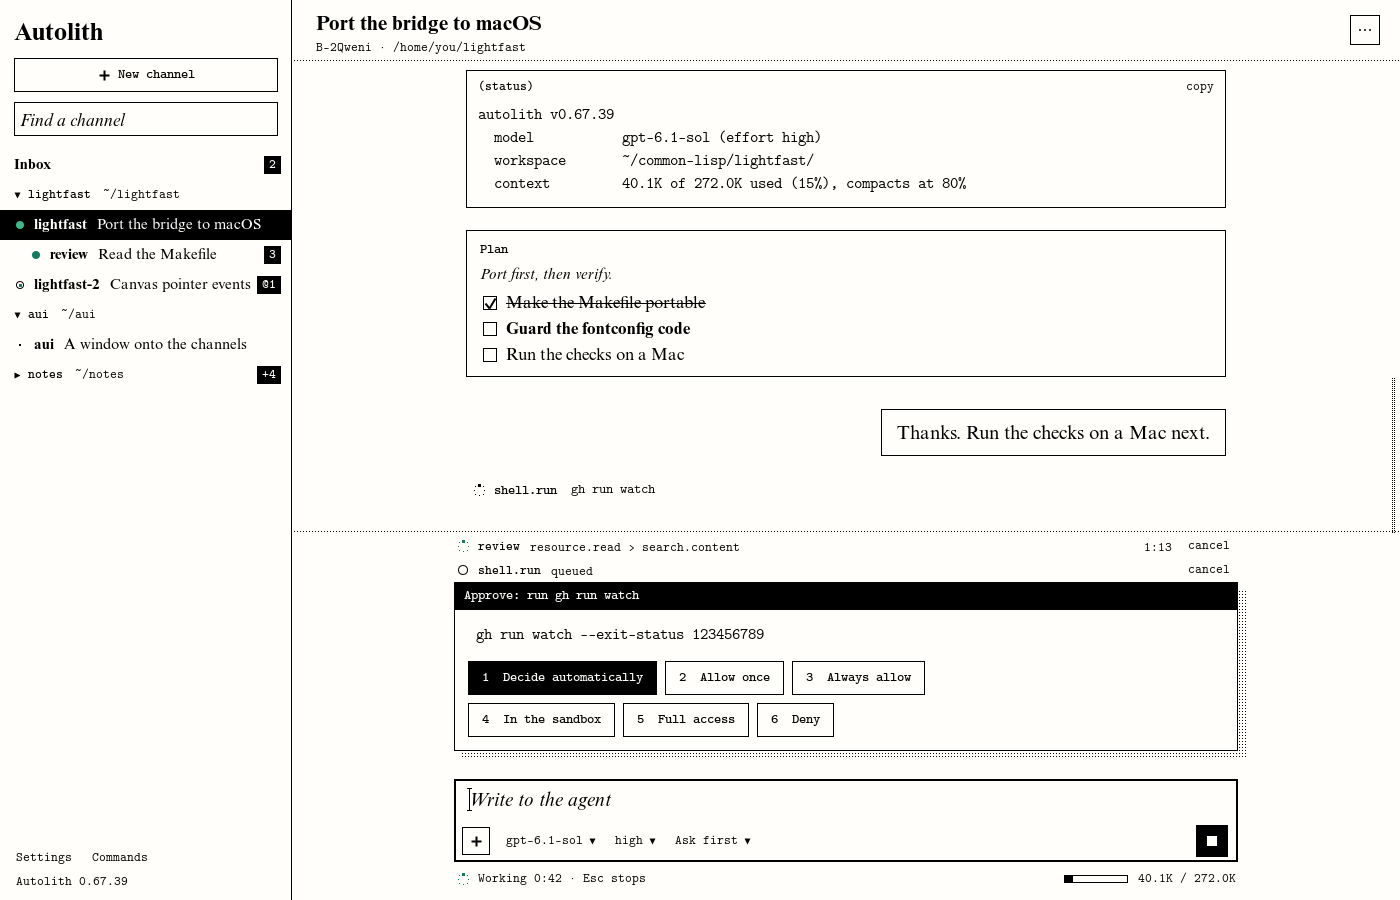
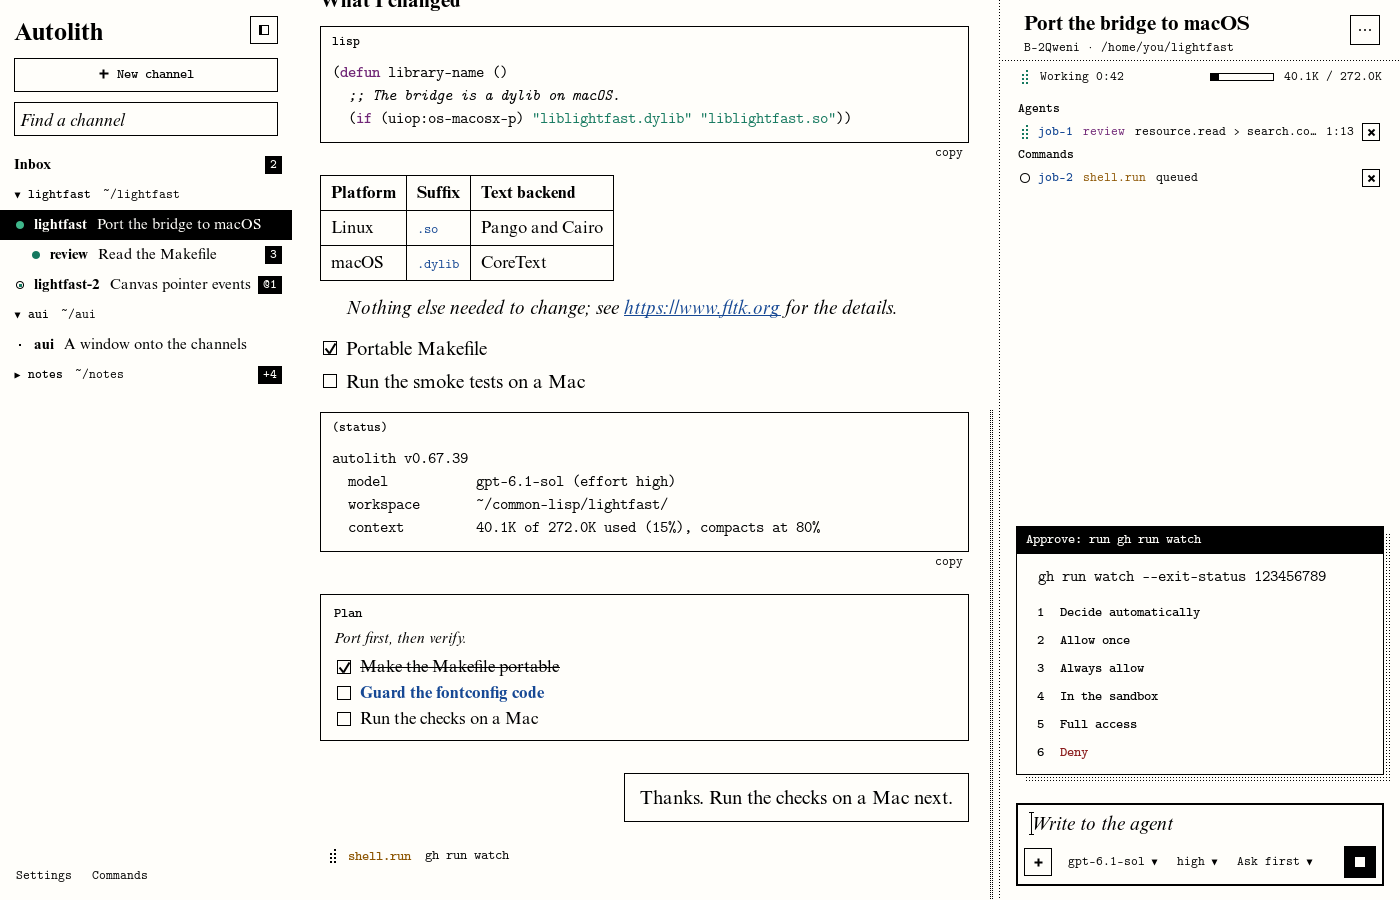
Describe the console, the menus and the editing keys

diff --git a/README.md b/README.md
@@ -22,6 +22,8 @@ hairlines, no rounded corners.
 
 ![An approval waiting above the composer](assets/pictures/approval.png)
 
+![What is remembered for the workspace](assets/pictures/memories.png)
+
 ## Install
 
 AUI is built on the machine it runs on.
@@ -105,23 +107,38 @@ Options of AUI's own:
 | `-C`, `--directory DIR` | work in DIR instead of the current directory |
 | `--prompt TEXT` | send TEXT as soon as the channel is attached |
 | `--draft TEXT` | put TEXT in the composer |
-| `--view NAME` | show `commands`, `settings` or `channels` at start |
+| `--view NAME` | show `commands`, `settings`, `channels`, `agenda`, `memories` or `plan` at start |
 | `--demo` | a scripted conversation, no server needed |
 | `--shot FILE` | write a picture of the window and exit |
 | `--size WIDTHxHEIGHT` | with `--shot`, draw offscreen at exactly this size |
 
 ## Using it
 
-The left side lists the world's channels: the inbox, then each workspace with
-its channels, children under their parents. A green dot marks an agent at
-work, a ring a hosted channel that is idle, a small point one nobody serves.
-Counts at the right are unread messages and mentions. Click a channel to
-attach to it; right-click for more.
+A wide window has three columns. The left one lists the world's channels, the
+middle one holds the conversation and nothing else, and the right one, the
+console, holds everything about the channel that is not conversation: its
+title, identifier and directory, how full its context is, what runs for it,
+what waits to be read by the agent, an approval when one is asked for, and the
+composer at its foot. A window too narrow for that stacks the same things
+above and below the conversation, and one narrower still shows the channel
+list as a drawer.
+
+The channel list has the inbox, then each workspace with its channels,
+children under their parents. A green dot marks an agent at work, a ring a
+hosted channel that is idle, a small point one nobody serves. Counts at the
+right are unread messages and mentions. Click a channel to attach to it;
+right-click for more. The button beside the wordmark puts the list away.
+
+What runs is listed by kind, agents, commands, evaluations and model calls,
+and a kind with nothing running is not named. A row's cross cancels it; its
+menu copies the call that cancels it.
 
 Write in the composer. A draft starting with `/` or `(` is a command or a Lisp
 form and runs as it does in the terminal; typing either offers the channel's
 commands, and `@` offers the world's participants. The chips under the text
-choose the model, the reasoning effort and the permission mode.
+choose the model, the reasoning effort and the permission mode. The channel's
+menu, the button with three dots, shows its status, plan, agenda, memories and
+jobs, each in a window of its own.
 
 What the agent did is shown as one line per tool call, reasoning step or
 notice; click a line to open it. Drag across the conversation to select and
@@ -135,7 +152,12 @@ copy text.
 | Up, Down | step through completions, or through what you sent |
 | Escape | put a list or the drawer away; otherwise stop the agent |
 | 1 to 9 | answer a waiting approval with that choice, when the composer is empty |
-| Ctrl+K | commands |
+| Ctrl+A, Ctrl+E | the start and the end of the line |
+| Ctrl+U, Ctrl+K | delete to the start and to the end of the line |
+| Ctrl+W, Ctrl+Backspace, Alt+Backspace | delete the word before the caret |
+| Alt+D, Ctrl+Delete | delete the word after the caret |
+| Alt+B, Alt+F | move by words |
+| Ctrl+K | commands, where the line has nothing after the caret to delete |
 | Ctrl+, | settings |
 | Ctrl+T | show or hide the channel list |
 | Ctrl+O | find a channel |
@@ -143,7 +165,8 @@ copy text.
 | Page Up, Page Down | scroll the conversation |
 | Ctrl+Home, Ctrl+End | its beginning; its end, following new output again |
 
-On macOS the Command key takes the place of Ctrl.
+On macOS the Command key takes the place of Ctrl for the window's own keys.
+The editing keys stay on Control there, as in every text field on a Mac.
 
 ## Develop
 

diff --git a/AGENTS.md b/AGENTS.md
@@ -28,8 +28,9 @@ ask for what is missing.
 - `src/ui/`: the toolkit over Lightfast. Theme, painting, the stage with its
   pointer regions, paragraphs and blocks, controls.
 - `src/view/`: the window. How entries are typeset, the document, the
-  channel list, the composer, completion, overlays, and the workbench that
-  holds the window's state.
+  channel list, the composer, completion, the activity list, the overlays
+  with their catalogs, sheets and panels, and the workbench that holds the
+  window's state.
 - `tests/`: FiveAM, same package, no display, server or credentials.
 - `script/setup.lisp`: finds the Autolith checkout and its dependency set;
   every script and the source checks load it first.
@@ -67,6 +68,17 @@ FLTK goes into Lightfast as a reusable operation, never as application
 behavior.
 
 The look is Interlisp Paper's with the Autolith site's liberties: one paper
-ground, ink, the brand green only for what is alive, inversion for selection
-and hover, dither for shadows and de-emphasis, hairlines, no rounded corners,
-no grey, sentence case.
+ground, ink, inversion for selection and hover, dither for shadows and
+de-emphasis, hairlines, no rounded corners, no grey, sentence case. A few
+accent inks say what a thing is, as the terminal's colors do: green for what
+is alive or went well, red for what failed, amber for tools and warnings, blue
+for code among prose, links and the step in hand, plum for defining words in
+code. They are tokens in `src/ui/theme.lisp` and turn lighter on an inverted
+ground by themselves; do not invent others.
+
+Menus, pickers, prompts and panels are overlays drawn on the stage
+(`src/view/overlay.lisp`), never FLTK's own popups or dialogs, which do not
+share the faces. A file chooser is the one exception. A wide window sets the
+console (title, activity, approval, composer) beside the conversation; a
+narrow one stacks them. Both come from `window--layout`, so a pane is added
+there once and appears in both.
